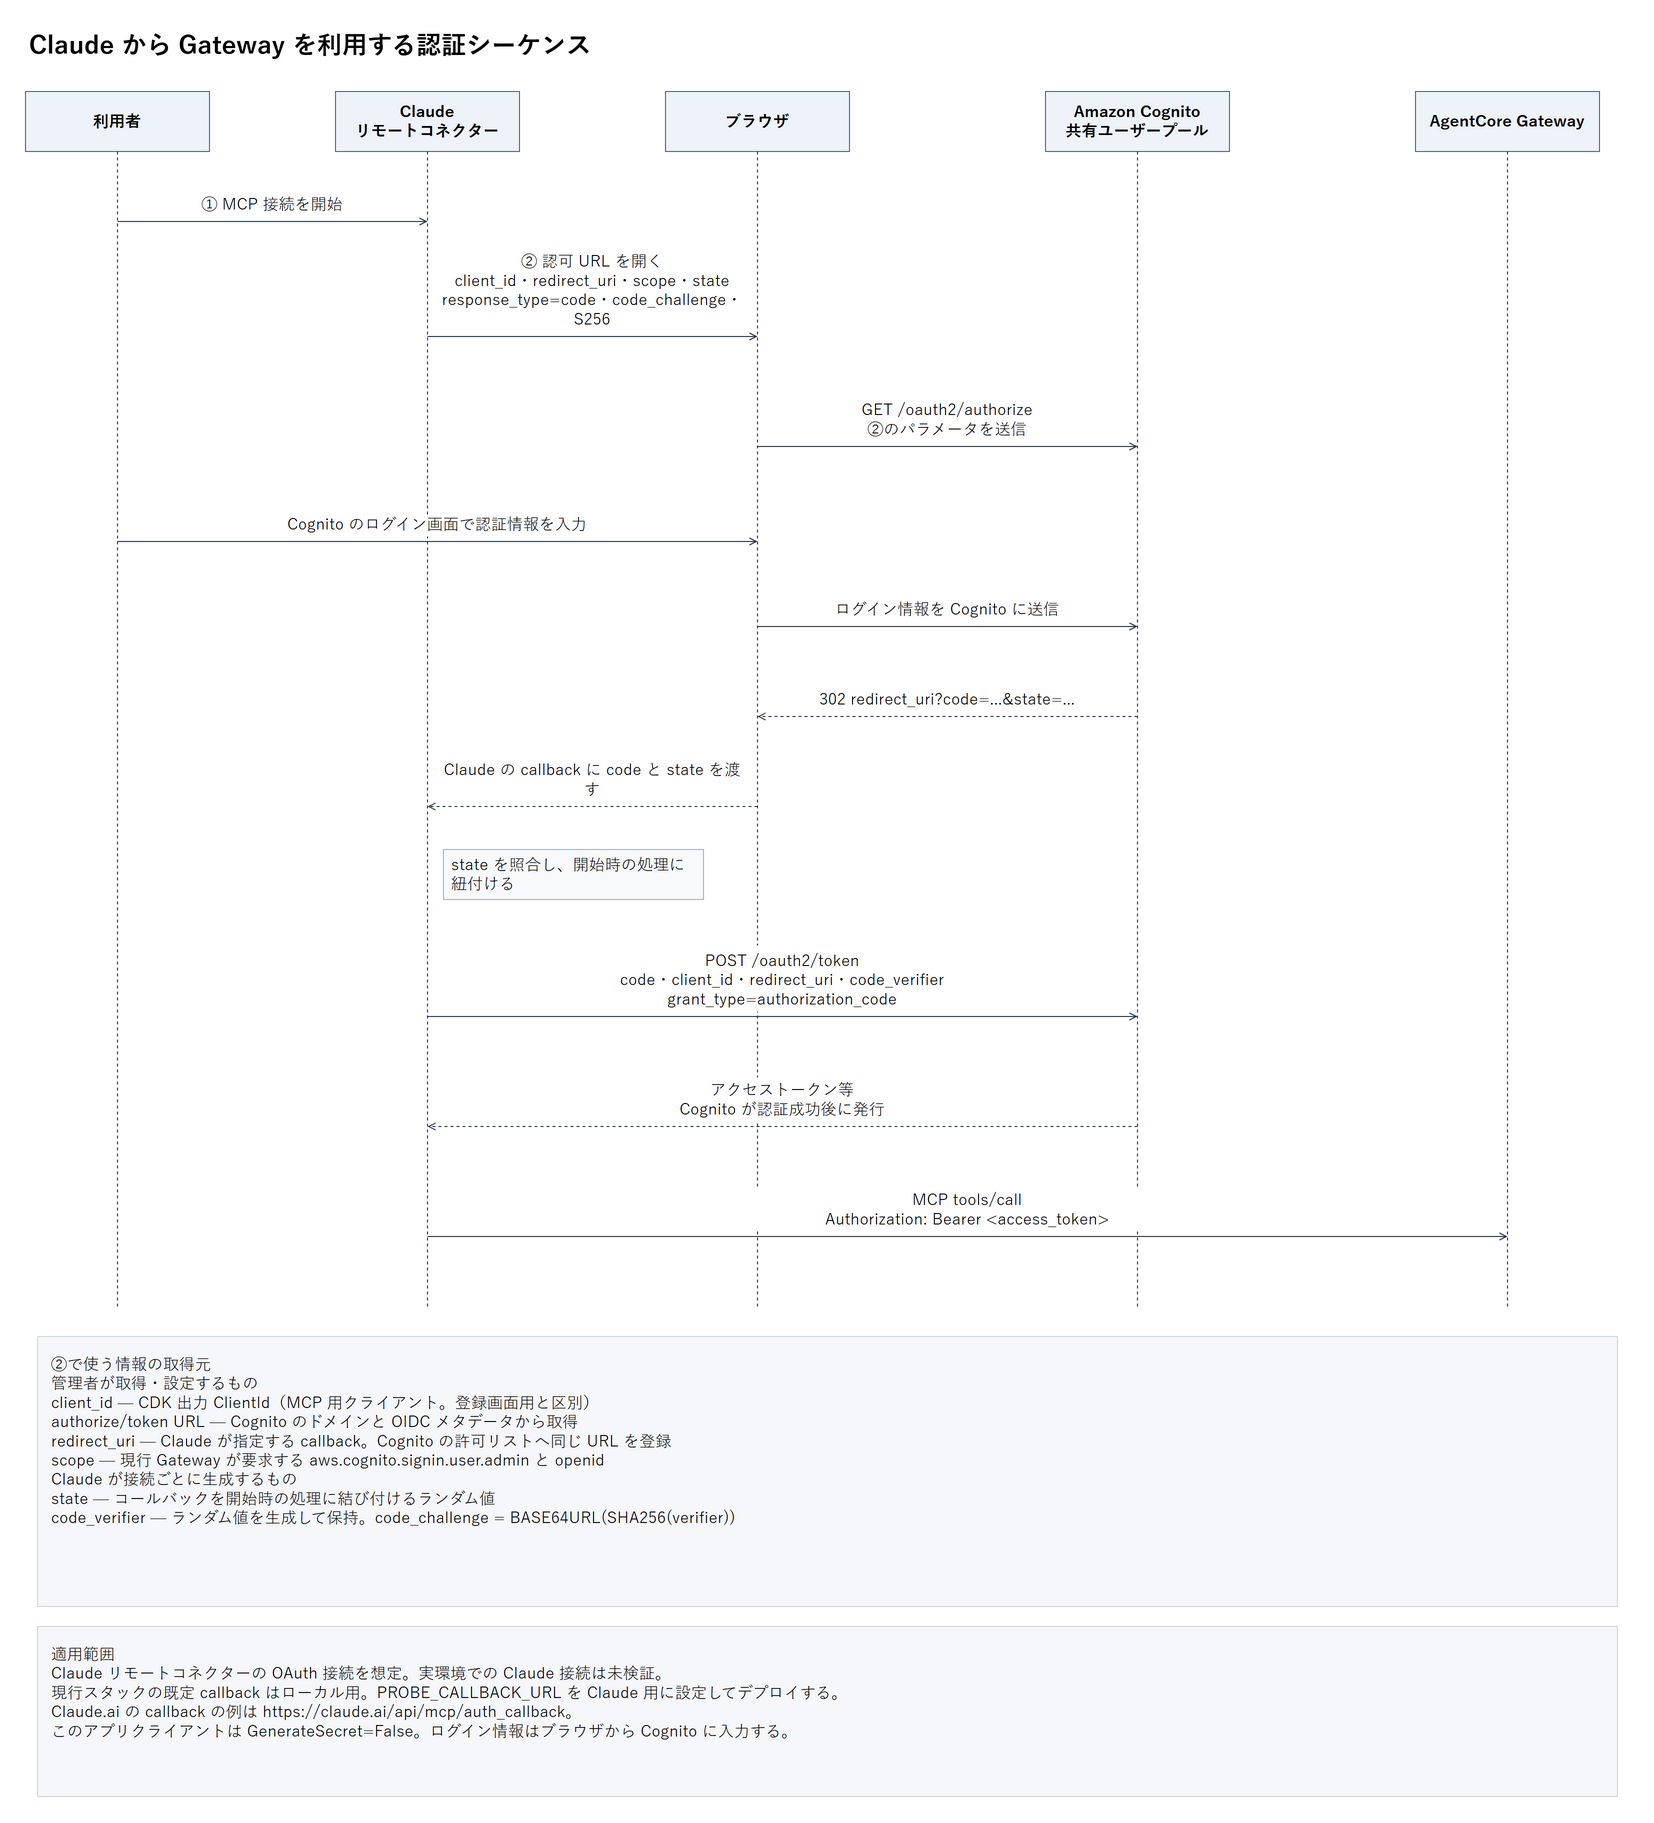
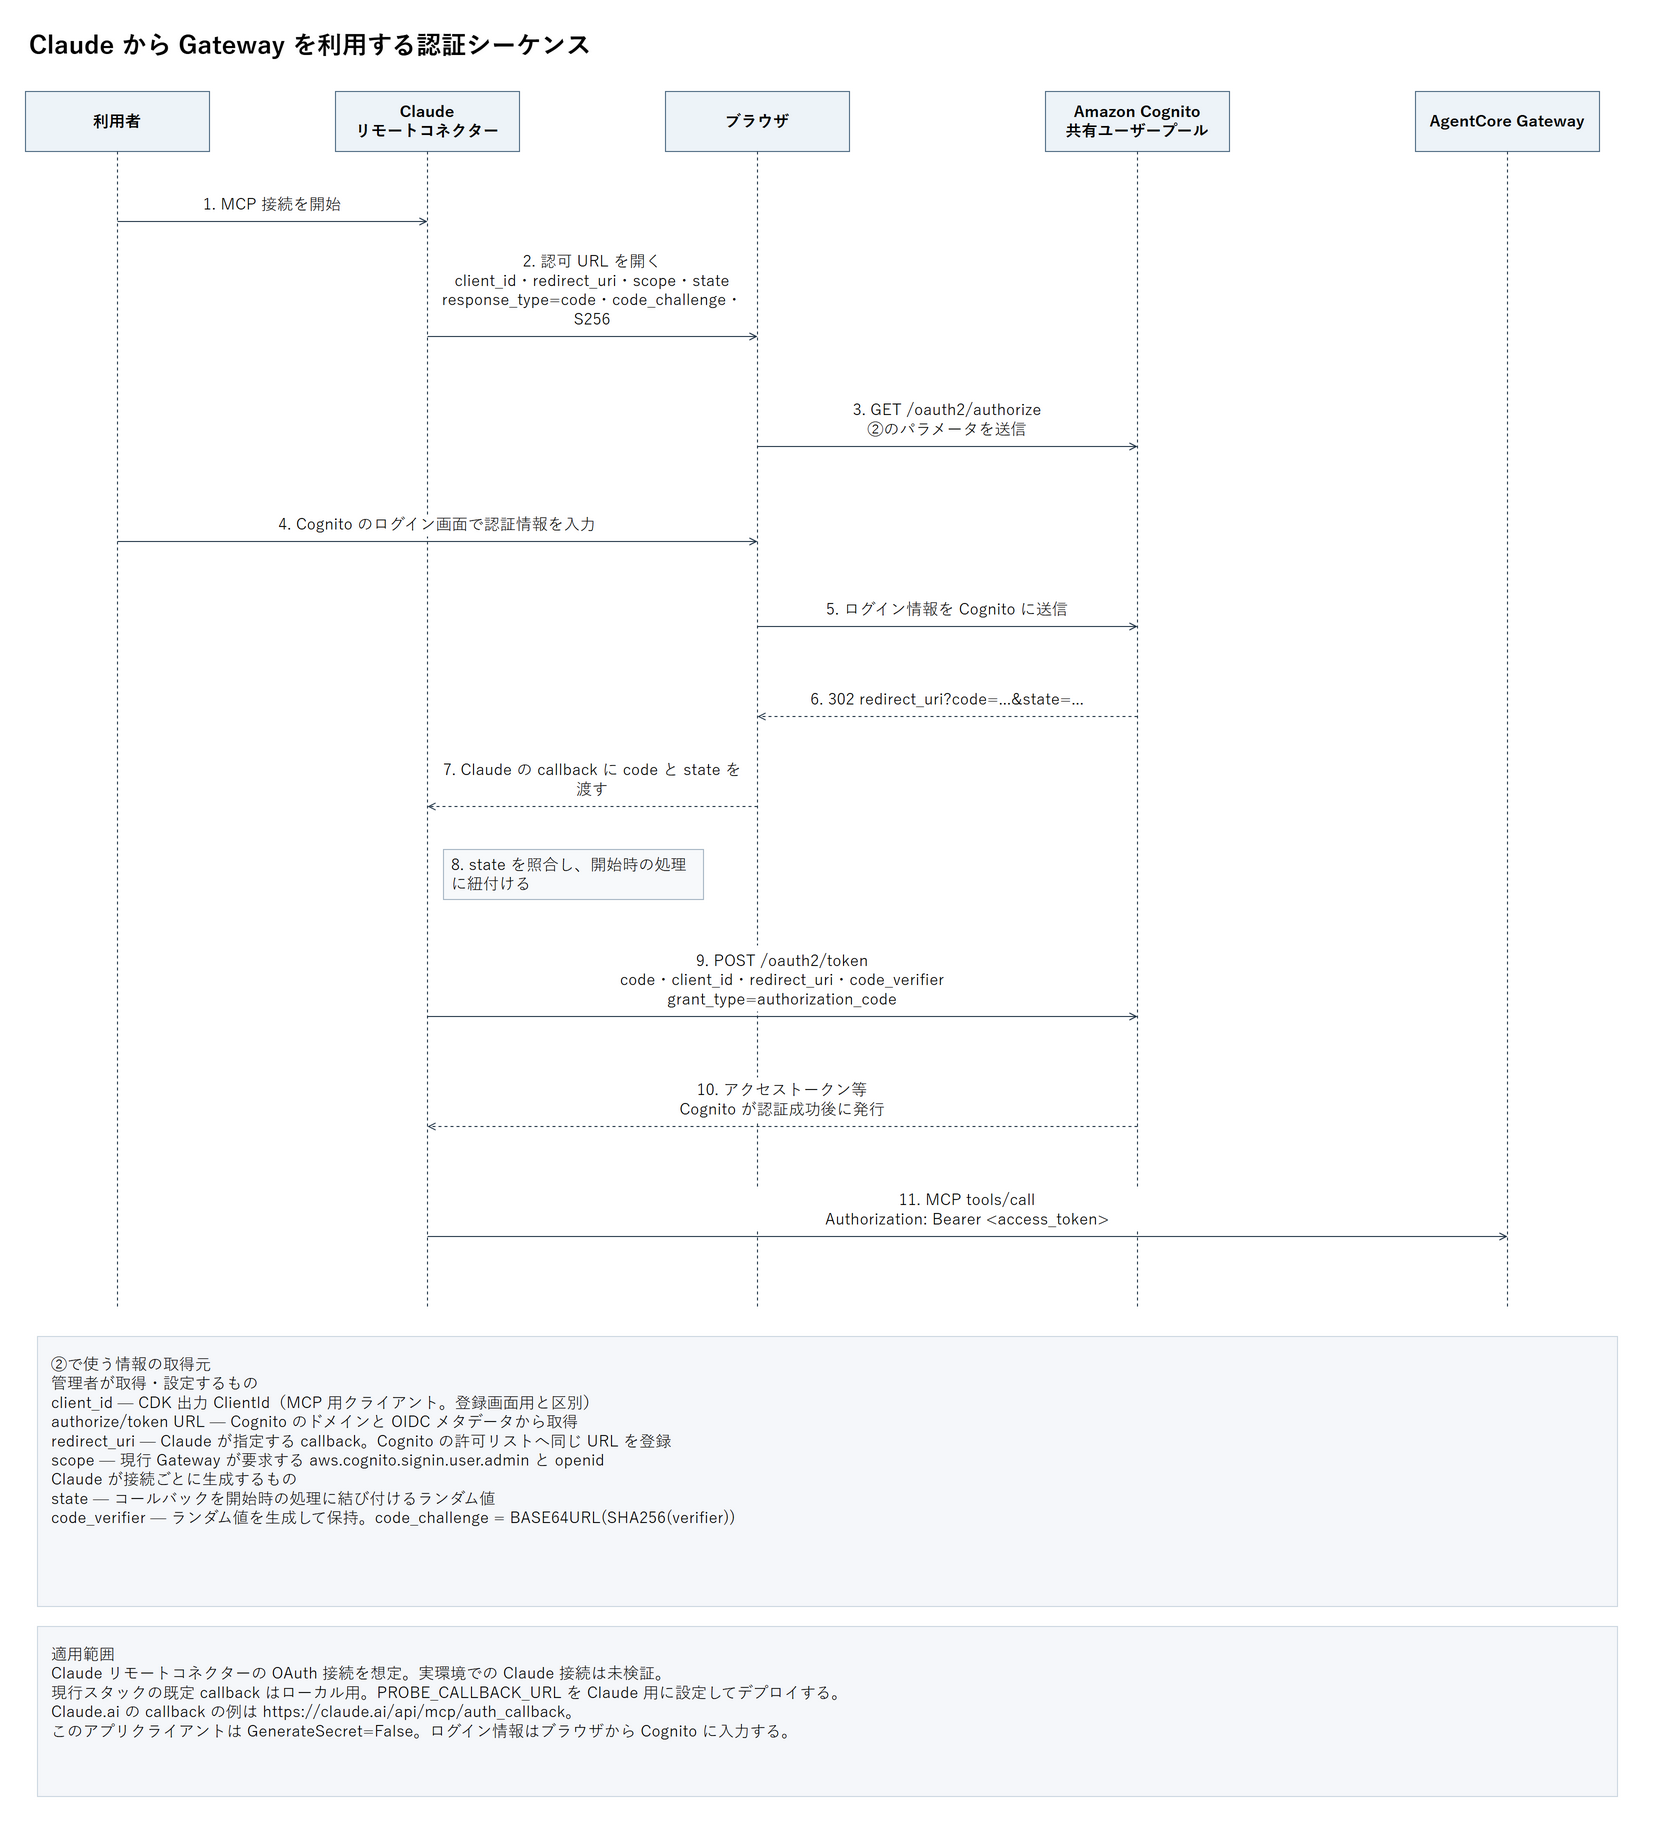
Number all authentication sequence steps across both pages

diff --git a/docs/images/build_auth_sequence.py b/docs/images/build_auth_sequence.py
@@ -18,7 +18,7 @@ def line(root, id, x1,y1,x2,y2, dashed=False, arrow=True):
     ET.SubElement(g,"mxPoint",x=str(x1),y=str(y1),**{"as":"sourcePoint"})
     ET.SubElement(g,"mxPoint",x=str(x2),y=str(y2),**{"as":"targetPoint"})
 
-def page(file, name, title, actors, messages, notes, width, height):
+def page(file, name, title, actors, messages, notes, width, height, start_number=1):
     diagram=ET.SubElement(file,"diagram",name=name,id=name)
     model=ET.SubElement(diagram,"mxGraphModel",dx="1400",dy="900",grid="1",gridSize="10",page="1",pageScale="1",
         pageWidth=str(width),pageHeight=str(height), math="0",shadow="0")
@@ -29,6 +29,7 @@ def page(file, name, title, actors, messages, notes, width, height):
         cell(root,f"actor{i}",label,x-92,85,184,60,"rounded=0;strokeColor=#4C6981;fillColor=#EDF3F8;fontStyle=1;align=center;")
         line(root,f"life{i}",x,145,x,bottom,True,False)
     for i,(a,b,y,text,response) in enumerate(messages):
+        text = f"{start_number + i}. {text.removeprefix('① ').removeprefix('② ')}"
         xa,xb=actors[a][0],actors[b][0]
         if a==b:
             cell(root,f"self{i}",text,xa+16,y-22,260,50,"rounded=0;strokeColor=#A5B5C3;fillColor=#F7F9FB;align=left;spacing=8;")
@@ -109,7 +110,7 @@ page(doc,"runtime","Gateway の本人確認から下流 MCP 呼び出しまで",
 "署名不正・期限切れは拒否。未登録・disabled は復号せずエラー。モックの誤キーは拒否。\n"
 "tools/list はインターセプターがアダプターを直接呼ぶ別経路。キー取得・復号・下流呼び出しは行わない。\n"
 "このページの Gateway 以降は検証 Lambda からの SDK ログインで実環境試験済み。")
-], 1930,2540)
+], 1930,2540, start_number=12)
 ET.indent(doc)
 ET.ElementTree(doc).write(HERE/"gateway-auth-sequence.drawio",encoding="utf-8",xml_declaration=True)
 print("written", HERE/"gateway-auth-sequence.drawio")
